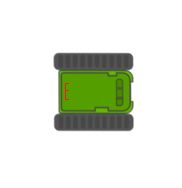
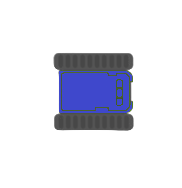
working buttons, changed enemy sprite, slightly smoother enemy movement, and a restart button

diff --git a/gierka/js/enemy.js b/gierka/js/enemy.js
@@ -13,6 +13,10 @@ export default class Enemy {
         this.directionChangeTimer = 0;
         this.directionChangeInterval = 2000; 
 
+
+        this.targetDir = { x: 0, y: 0 };
+        this.turnSmoothing = 0.2; 
+
        
         this.lastShotTime = 0;
         this.shootCooldown = 1500; 
@@ -39,6 +43,8 @@ export default class Enemy {
         
 
         this.changeDirection();
+        this.dir.x = this.targetDir.x;
+        this.dir.y = this.targetDir.y;
     }
 
     takeDamage() {
@@ -53,10 +59,9 @@ export default class Enemy {
     changeDirection() {
    
         const angle = Math.random() * Math.PI * 2;
-        this.dir.x = Math.cos(angle);
-        this.dir.y = Math.sin(angle);
+        this.targetDir.x = Math.cos(angle);
+        this.targetDir.y = Math.sin(angle);
         this.directionChangeTimer = 0;
-
     }
 
     canShoot() {
@@ -72,19 +77,26 @@ export default class Enemy {
         
         this.directionChangeTimer += window.DELAY;
         
-        
         if(this.directionChangeTimer >= this.directionChangeInterval) {
             this.changeDirection();
         }
         
+        this.dir.x = this.targetDir.x;
+        this.dir.y = this.targetDir.y;
+
         const speed = this.speed * (window.DELAY / 1000);
         
         let x = this.dir.x;
         let y = this.dir.y;
         
-        
         if(x != 0 || y != 0) {
-            this.bodyAngle = Math.atan2(y, x);
+
+            const desired = Math.atan2(y, x);
+            let delta = desired - this.bodyAngle;
+
+            if(delta > Math.PI) delta -= 2 * Math.PI;
+            else if(delta < -Math.PI) delta += 2 * Math.PI;
+            this.bodyAngle += delta * this.turnSmoothing;
         }
         
         this.pos.x += x * speed;
@@ -94,32 +106,43 @@ export default class Enemy {
         if(window.GAME && window.GAME.map && window.GAME.map.checkCollision(this.pos, this.r)) {
             this.pos.x -= x * speed;
             this.pos.y -= y * speed;
-            this.changeDirection(); 
+
+            this.changeDirection();
+            this.dir.x = this.targetDir.x;
+            this.dir.y = this.targetDir.y;
         }
         
         
         if ( this.pos.x - this.r < 0 ) {
             this.pos.x = this.r;
-            this.dir.x *= -1;
+
+            this.targetDir.x = Math.abs(this.targetDir.x) || 0.1;
+            this.dir.x = this.targetDir.x;
         }
         else if( this.pos.x + this.r > window.CANVAS.width) {
             this.pos.x = window.CANVAS.width - this.r;
-            this.dir.x *= -1;
+
+            this.targetDir.x = -Math.abs(this.targetDir.x) || -0.1;
+            this.dir.x = this.targetDir.x;
         }
 
         if ( this.pos.y - this.r < 0 ) {
             this.pos.y = this.r;
-            this.dir.y *= -1;
+
+            this.targetDir.y = Math.abs(this.targetDir.y) || 0.1;
+            this.dir.y = this.targetDir.y;
         }
         else if( this.pos.y + this.r > window.CANVAS.height) {
             this.pos.y = window.CANVAS.height - this.r;
-            this.dir.y *= -1;
+
+            this.targetDir.y = -Math.abs(this.targetDir.y) || -0.1;
+            this.dir.y = this.targetDir.y;
         }
         
        
-        const dx = window.GAME.Player.pos.x - this.pos.x;
-        const dy = window.GAME.Player.pos.y - this.pos.y;
-        this.turretAngle = Math.atan2(dy, dx);
+        const aimX = window.GAME.Player.pos.x - this.pos.x;
+        const aimY = window.GAME.Player.pos.y - this.pos.y;
+        this.turretAngle = Math.atan2(aimY, aimX);
 
        
         if(this.canShoot()) {

diff --git a/gierka/js/game.js b/gierka/js/game.js
@@ -17,6 +17,13 @@ export default class Game {
         this.enemy = new Enemy();
         this.bullets = [];
 
+        this.restartButtonRect = {
+            x: window.CANVAS ? window.CANVAS.width / 2 - 100 : window.innerWidth / 2 - 100,
+            y: window.CANVAS ? window.CANVAS.height / 2 + 100 : window.innerHeight / 2 + 100,
+            width: 200,
+            height: 60
+        };
+
         this.lastTime = new Date().getTime();
         
 
@@ -70,7 +77,17 @@ export default class Game {
 
     update(){
 
-        if(this.gameOver) return; 
+if(this.gameOver) {
+            this.restartButtonRect.x = window.CANVAS.width / 2 - this.restartButtonRect.width / 2;
+            this.restartButtonRect.y = window.CANVAS.height / 2 + 100;
+
+            if (window.EVENTS.mapMouse.down && this.isMouseOverRestart()) {
+                window.CANVAS.showCursor();
+                window.GAME = new Game();
+                return; 
+            }
+            return;
+        }
 
 
         if(!this.enemy.alive) {
@@ -132,6 +149,10 @@ export default class Game {
     }
 
     render() {
+        if (!this.gameOver) {
+            window.CANVAS.hideCursor();
+        }
+
         window.CANVAS.clean();
         this.map.render();
         this.Player.render();
@@ -195,6 +216,8 @@ export default class Game {
         
  
         if(this.gameOver) {
+            window.CANVAS.showCursor();
+
             ctx.fillStyle = 'rgba(0, 0, 0, 0.7)';
             ctx.fillRect(0, 0, window.CANVAS.width, window.CANVAS.height);
             
@@ -206,11 +229,33 @@ export default class Game {
             ctx.fillStyle = '#FFFF00';
             ctx.font = 'bold 32px Arial';
             ctx.fillText(`WYNIK: ${this.score}`, window.CANVAS.width / 2, window.CANVAS.height / 2 + 20);
-            
+
+            const rect = this.restartButtonRect;
+            ctx.fillStyle = '#FF0000';
+            ctx.fillRect(rect.x, rect.y, rect.width, rect.height);
+            ctx.fillStyle = '#000000';
+            ctx.font = 'bold 32px Arial';
+            ctx.fillText('RESTART', window.CANVAS.width / 2, rect.y + 40);
+
             ctx.fillStyle = '#FFFFFF';
             ctx.font = '24px Arial';
-            ctx.fillText('przeładuj stronę jak chcesz zagrać znowu', window.CANVAS.width / 2, window.CANVAS.height / 2 + 80);
+            ctx.fillText('naciśnij przycisk aby zagrać ponownie', window.CANVAS.width / 2, window.CANVAS.height / 2 + 80);
+
+            if (this.isMouseOverRestart()) {
+                window.CANVAS.element.style.cursor = 'pointer';
+            } else {
+                window.CANVAS.element.style.cursor = 'auto';
+            }
         }
+    }
+
+    isMouseOverRestart() {
+        const mouse = window.EVENTS.mapMouse;
+        const rect = this.restartButtonRect;
+        return mouse.x >= rect.x &&
+               mouse.x <= rect.x + rect.width &&
+               mouse.y >= rect.y &&
+               mouse.y <= rect.y + rect.height;
     }
 
 }

diff --git a/gierka/js/menu.js b/gierka/js/menu.js
@@ -36,8 +36,17 @@ export default class Menu {
         window.GAME = new Game();
     }
 
+
+
     render() {
+
         if(!this.active) return;
+        if (this.isMouseOver()) {
+            window.CANVAS.element.style.cursor = 'pointer';
+        } else {
+            window.CANVAS.element.style.cursor = 'auto';
+        }
+
         const ctx = window.CANVAS.ctx;
         ctx.fillStyle = 'rgba(0, 0, 0, 0.8)';
         ctx.fillRect(0, 0, window.CANVAS.width, window.CANVAS.height);
@@ -60,8 +69,11 @@ export default class Menu {
         ctx.fillText('Czerwony celownik = nie możesz strzelić', window.CANVAS.width / 2, 390);
 
         const rect = this.startButtonRect;
+        this.startButtonRect.y = window.CANVAS.height / 2 + 50;
+        this.startButtonRect.x = window.CANVAS.width / 2 - rect.width / 2;
         ctx.fillStyle = '#00FF00';
         ctx.fillRect(rect.x, rect.y, rect.width, rect.height);
+
 
         ctx.fillStyle = '#000000';
         ctx.font = 'bold 32px Arial';
@@ -73,6 +85,8 @@ export default class Menu {
         ctx.textAlign = 'center';
         ctx.fillText('dostaniesz 3 razy to umierasz, 3 sekundy po zestrzeleniu przeciwnika zjawia się kolejny', window.CANVAS.width / 2, window.CANVAS.height - 100);
         this.renderScoresTable(ctx);
+
+        
     }
 
     renderScoresTable(ctx) {
@@ -108,5 +122,13 @@ export default class Menu {
                 ctx.fillText('-', tableX + tableWidth / 2, yPos);
             }
         }
+    }
+    isMouseOver(){
+        const mouse = window.EVENTS.mapMouse;
+        const rect = this.startButtonRect;
+        return mouse.x >= rect.x &&
+        mouse.x <= rect.x + rect.width &&
+        mouse.y >= rect.y &&
+        mouse.y <= rect.y + rect.height;
     }
 }
